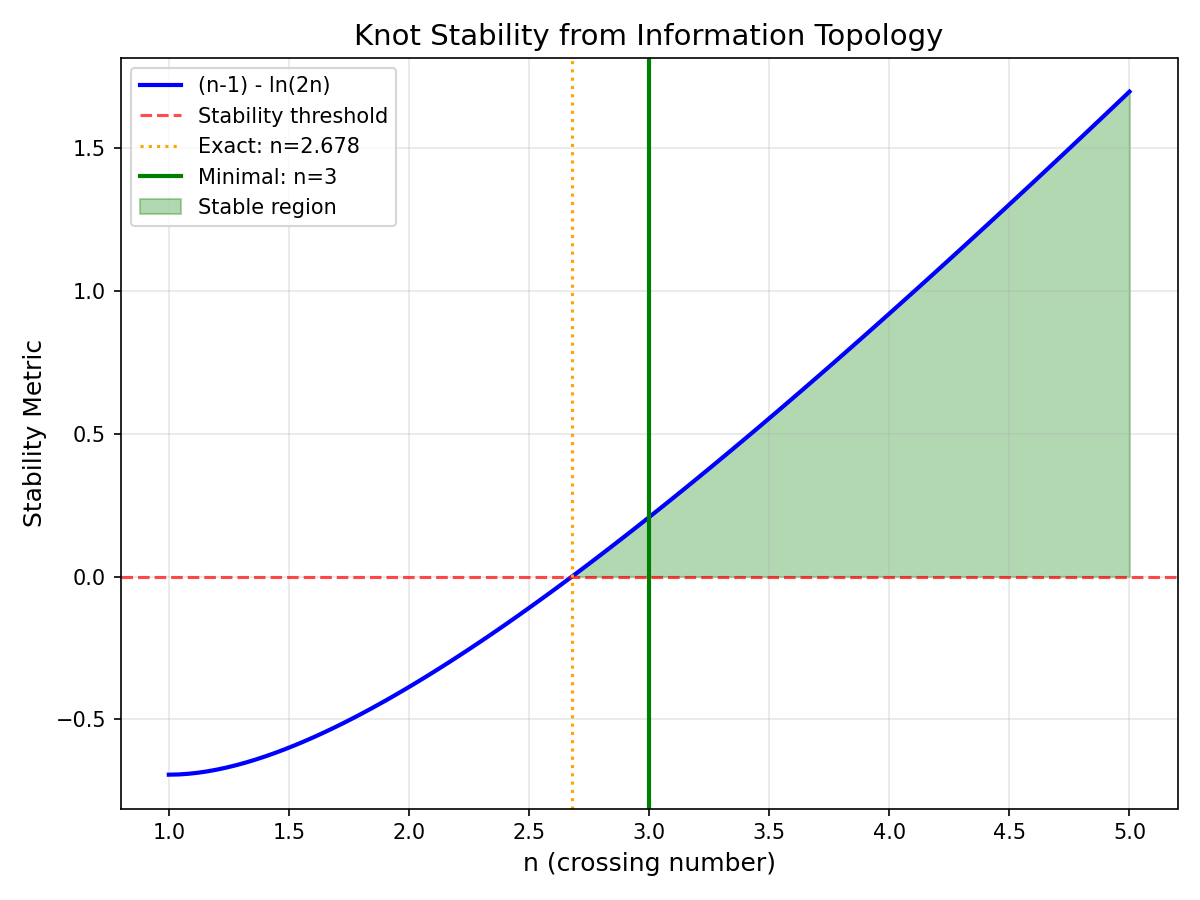
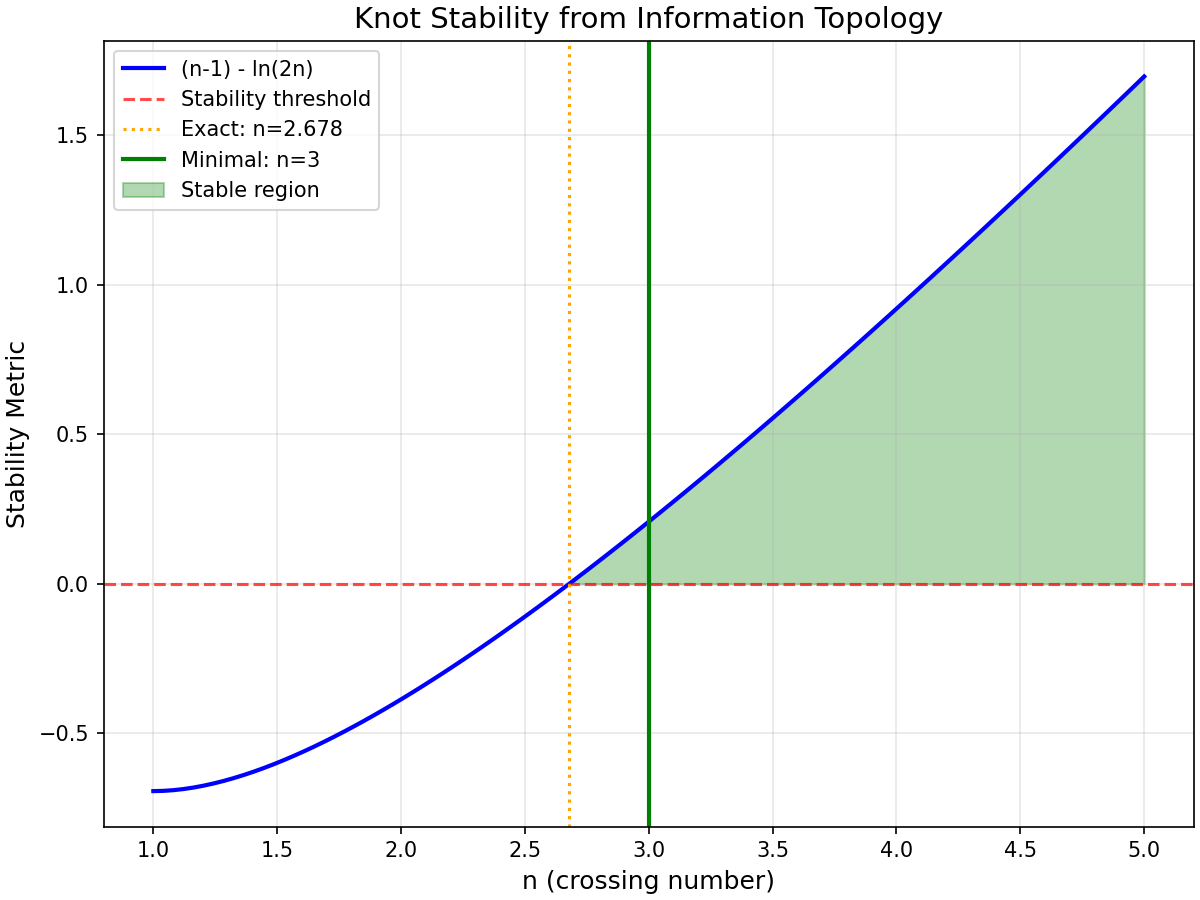
updated plot code to fix error

diff --git a/iequalsdxr.py b/iequalsdxr.py
@@ -72,7 +72,7 @@ def derive_minimal_knot(plot=True):
     if plot:
         x_vals = np.linspace(1, 5, 100)
         stability = x_vals - 1 - np.log(2 * x_vals)
-        plt.figure(figsize=(8, 6))
+        plt.figure(figsize=(8, 6), constrained_layout=True)  # Added constrained_layout=True
         plt.plot(x_vals, stability, 'b-', linewidth=2, label='(n-1) - ln(2n)')
         plt.axhline(0, color='r', linestyle='--', alpha=0.7, label='Stability threshold')
         plt.axvline(n_exact, color='orange', linestyle=':', label=f'Exact: n={n_exact:.3f}')
@@ -84,10 +84,10 @@ def derive_minimal_knot(plot=True):
         plt.ylabel('Stability Metric', fontsize=12)
         plt.legend()
         plt.grid(True, alpha=0.3)
-        plt.tight_layout()
+        # plt.tight_layout()  # Remove this line
         plt.savefig('framework_plots/knot_stability.png', dpi=150)
         plt.close()
-    
+
     return n_min, I_knot
 
 # Derive minimal knot
@@ -225,8 +225,8 @@ print(f"Uncertainty: ΔxΔp = {Delta_x * Delta_p:.1f} ≥ h/2 = {h_natural/2:.1f
 # Create comprehensive visualizations with creative heatmap
 def plot_complete_framework():
     """Create the ultimate visualization of the framework, with ratio heatmap."""
-    fig = plt.figure(figsize=(16, 12))
-    gs = fig.add_gridspec(3, 3, hspace=0.3, wspace=0.3)
+    fig = plt.figure(figsize=(16, 12), constrained_layout=True)
+    gs = fig.add_gridspec(3, 3)
     
     # 1. I = c spectrum
     ax1 = fig.add_subplot(gs[0, :2])
@@ -346,7 +346,6 @@ def plot_complete_framework():
     
     plt.suptitle('The Complete Unified Framework: From I = D × R to All Physics', 
                  fontsize=18, weight='bold')
-    plt.tight_layout()
     plt.savefig('framework_plots/complete_framework.png', dpi=150, bbox_inches='tight')
     plt.close()
 
